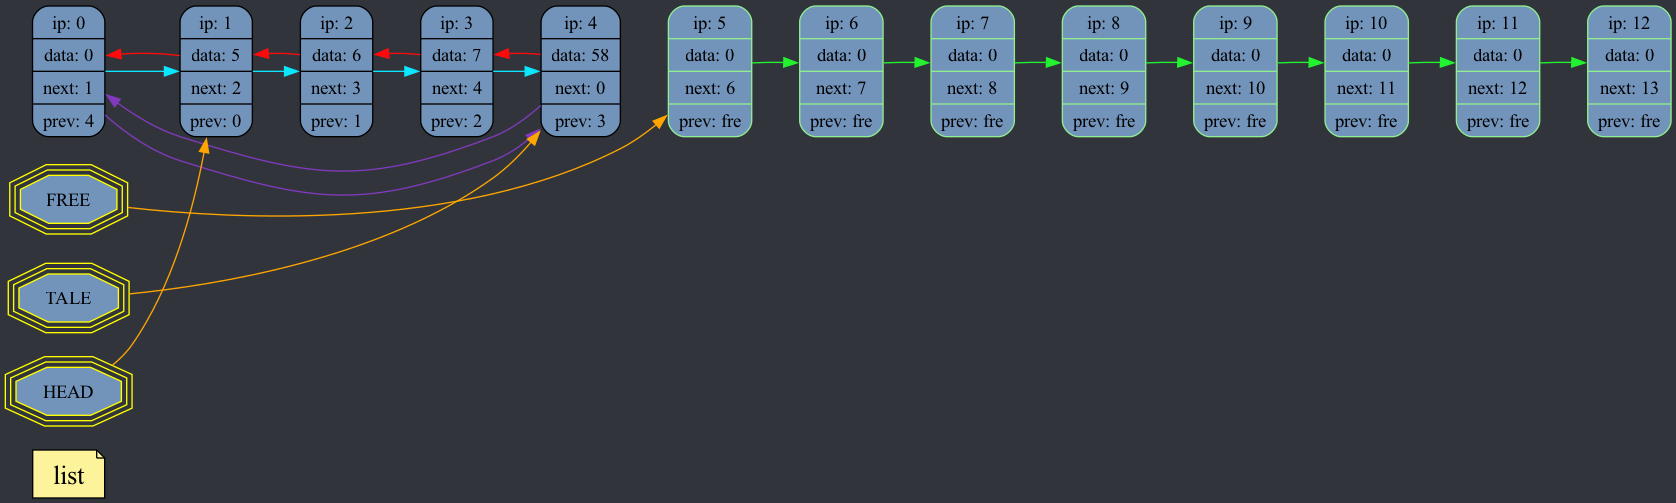
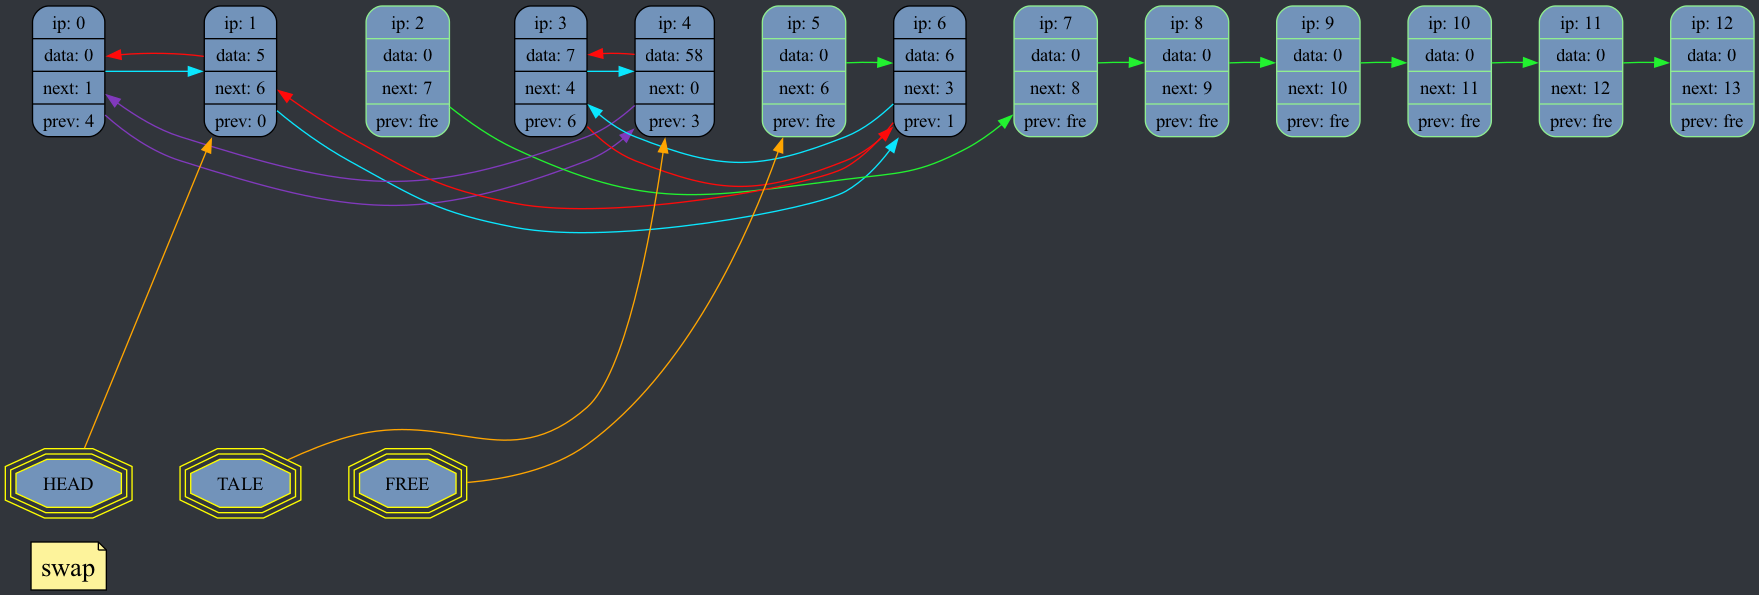
LINEARIZATION

diff --git a/list.cpp b/list.cpp
@@ -2,6 +2,7 @@
 #include <stdlib.h>
 #include "list.h"
 #include "dump_list.h"
+#include <math.h>
 
 static int get_free_cell (list_struct * list);
 static void add_free_cell(list_struct * list, int position);
@@ -30,8 +31,8 @@ int verificator(list_struct * list) {
         error = 1;       
     } 
 
-    if(list->free < count) { 
-        printf("free is out of range");
+    if(list->free > count) { 
+        printf("free is out of range    %d    \n", list->free);
         error = 1;       
     } 
 
@@ -108,27 +109,80 @@ static void add_free_cell(list_struct * list, int position) {
 }
 
 int swap(list_struct * list, int position1, int position2) {  // in work
+
+    if((list->data[position1].prev == free_elem && list->data[position2].prev == free_elem) || position1 == 0 || position2 == 0) {
+        return 0;
+    }
+    if (list->data[position1].prev == free_elem) {
+        list->data[list->data[position2].prev].next = position1;
+        list->data[list->data[position2].next].prev = position1;
+
+        list->data[position1].prev = list->data[position2].prev;
+        list->data[position1].value = list->data[position2].value;
+
+        int k = list->data[position1].next;
+
+        list->data[position1].next = list->data[position2].next;
+
+        list->data[position2].prev = free_elem;
+        list->data[position2].value = 0;
+        list->data[position2].next = k;
+
+        if(list->free == position1) {
+            list->free = position2;
+        }
+        return 0;
+    }
+
+    if (list->data[position2].prev == free_elem) {
+        list->data[list->data[position1].prev].next = position2;
+        list->data[list->data[position1].next].prev = position2;
+
+        list->data[position2].prev = list->data[position1].prev;
+        list->data[position2].value = list->data[position1].value;
+
+        int k = list->data[position2].next;
+
+        list->data[position2].next = list->data[position1].next;
+
+        list->data[position1].prev = free_elem;
+        list->data[position1].value = 0;
+        list->data[position1].next = k;
+
+        if(list->free == position2) {
+            list->free = position1;
+        }
+        return 0;
+    }
     int next = list->data[position1].next;
     int prev = list->data[position1].prev;
-
     int prev_elem1 = list->data[position1].prev;
     int prev_elem2 = list->data[position2].prev;
 
     int next_elem1 = list->data[position1].next;
     int next_elem2 = list->data[position2].next;
-
     list->data[prev_elem1].next = position2;
     list->data[prev_elem2].next = position1;
     list->data[next_elem1].prev = position2;
     list->data[next_elem2].prev = position1;
 
-    if (next_elem1 == position2) {
-        list->data[position1].next = next_elem2;
-        list->data[position2].prev = prev_elem1;
-        list->data[position1].prev = position2;
-        list->data[position2].next = position1;
 
 
+
+
+    if (abs((position1 - position2)) == 1) {  // 1 2
+        if (next_elem1 == position2) {
+            list->data[position1].next = next_elem2;
+            list->data[position2].prev = prev_elem1;
+            list->data[position1].prev = position2;
+            list->data[position2].next = position1;
+        } else {
+            list->data[position1].next = position2;  // 2 1
+            list->data[position1].prev = prev_elem2;
+            printf("fjn");
+            list->data[position2].prev = position1;
+            list->data[position2].next = next_elem1;
+        }
     } else {
         list->data[position1].next = list->data[position2].next;
         list->data[position1].prev = list->data[position2].prev;
@@ -139,4 +193,16 @@ int swap(list_struct * list, int position1, int position2) {  // in work
 
     return 0;
 
+}
+
+void linearization(list_struct * list) {
+    int count = 1;
+    for (int i = 0; i < 10; i++) { 
+        if (list->data[i].next != count) {
+            //draw_grapth(list, "list");
+            printf("%d\n\n\n\n", count);
+            swap(list, count, list->data[i].next);
+        }
+        count++;
+    }
 }

diff --git a/list_test.cpp b/list_test.cpp
@@ -16,25 +16,28 @@ int main(void) {
     list_insert_after(&list, 2, 7);
     list_insert_after(&list, 3, 58);
 
-    draw_grapth(&list, "list");
-    //swap(&list, 2, 1);
+    swap(&list, 6, 2);
     draw_grapth(&list, "swap");
+    swap(&list, 6, 2);
+    draw_grapth(&list, "delete third position");
+
 
     list_elem_del(&list, 3);
 
-    draw_grapth(&list, "delete third position");
 
     list_insert_after(&list, 4, 73);
 
-    draw_grapth(&list, "add after 4 position");
 
     list_elem_del(&list, 1);
 
     draw_grapth(&list, "delete first");
+
+    linearization(&list);
+    draw_grapth(&list, "linearization");
     
     dump_list(&list, pfile);
-    verificator(&list);
-    //grapth_presentation();
+    //verificator(&list);
+    grapth_presentation();
 
     list_Dtor(&list);
 

diff --git a/dump_list.cpp b/dump_list.cpp
@@ -152,6 +152,7 @@ void draw_grapth(list_struct * list, const char * func) {
     fprintf(pfile, "\th [shape=tripleoctagon,label=\"HEAD\", color = \"yellow\", fillcolor=\"#7293ba\",style=filled  ];\n");
     fprintf(pfile, "\tt [shape=tripleoctagon,label=\"TALE\", color = \"yellow\", fillcolor=\"#7293ba\",style=filled ];\n");
     fprintf(pfile, "\tf [shape=tripleoctagon,label=\"FREE\", color = \"yellow\", fillcolor=\"#7293ba\",style=filled ];\n");
+    fprintf(pfile, "\th->t->f[weight = 100, color = \"invis\"];\n");
     fprintf(pfile, "\th->%d[color = \"orange\", constraint=false];\n", list->data[0].next);
     fprintf(pfile, "\tt->%d[color = \"orange\", constraint=false];\n", list->data[0].prev);
     fprintf(pfile, "\tf->%d[color = \"orange\", constraint=false];\n", list->free);

diff --git a/list.h b/list.h
@@ -21,6 +21,8 @@ int list_elem_del(list_struct * list, int position);
 
 int swap(list_struct * list, int position1, int position2);
 
+void linearization(list_struct * list);
+
 int list_Ctor(list_struct * list);
 int list_Dtor(list_struct * list);
 
